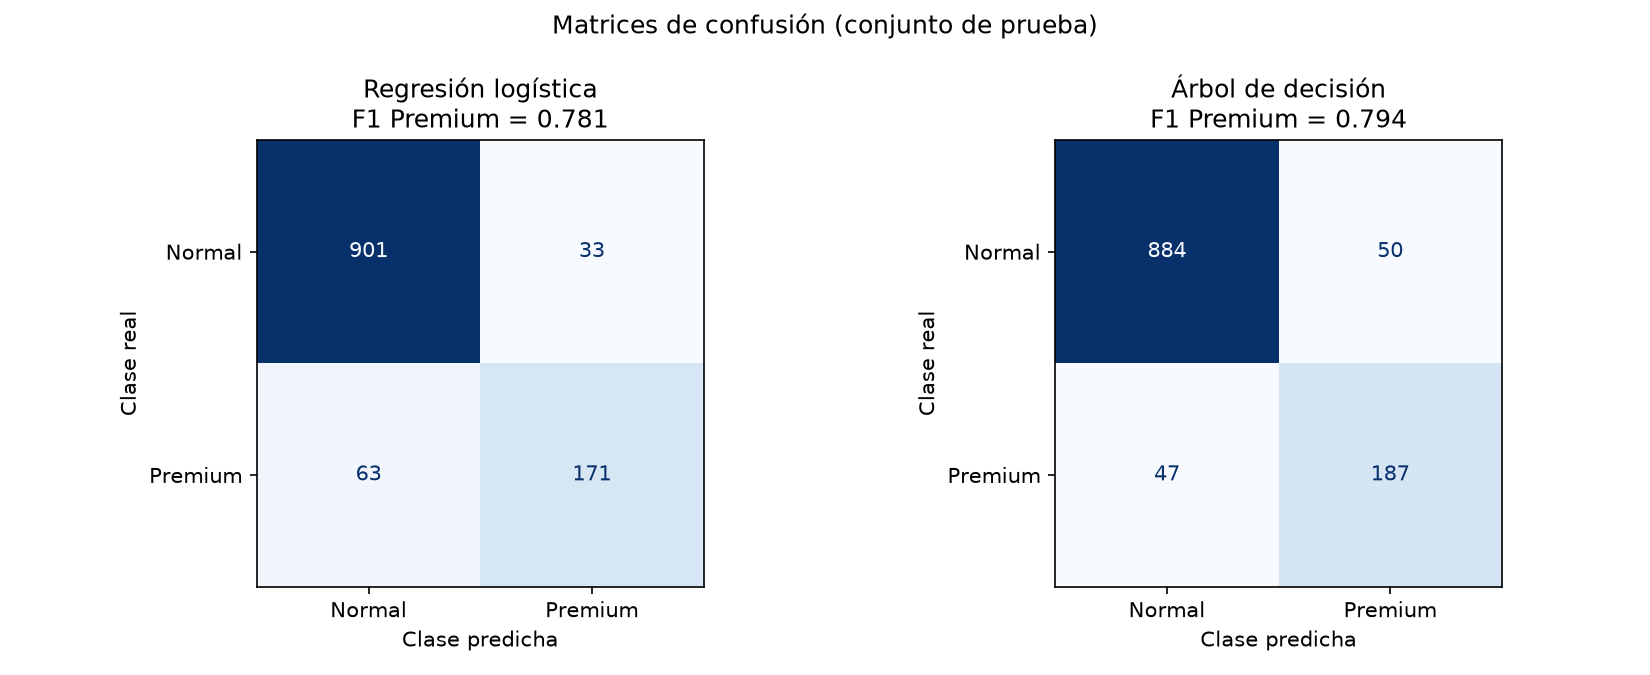
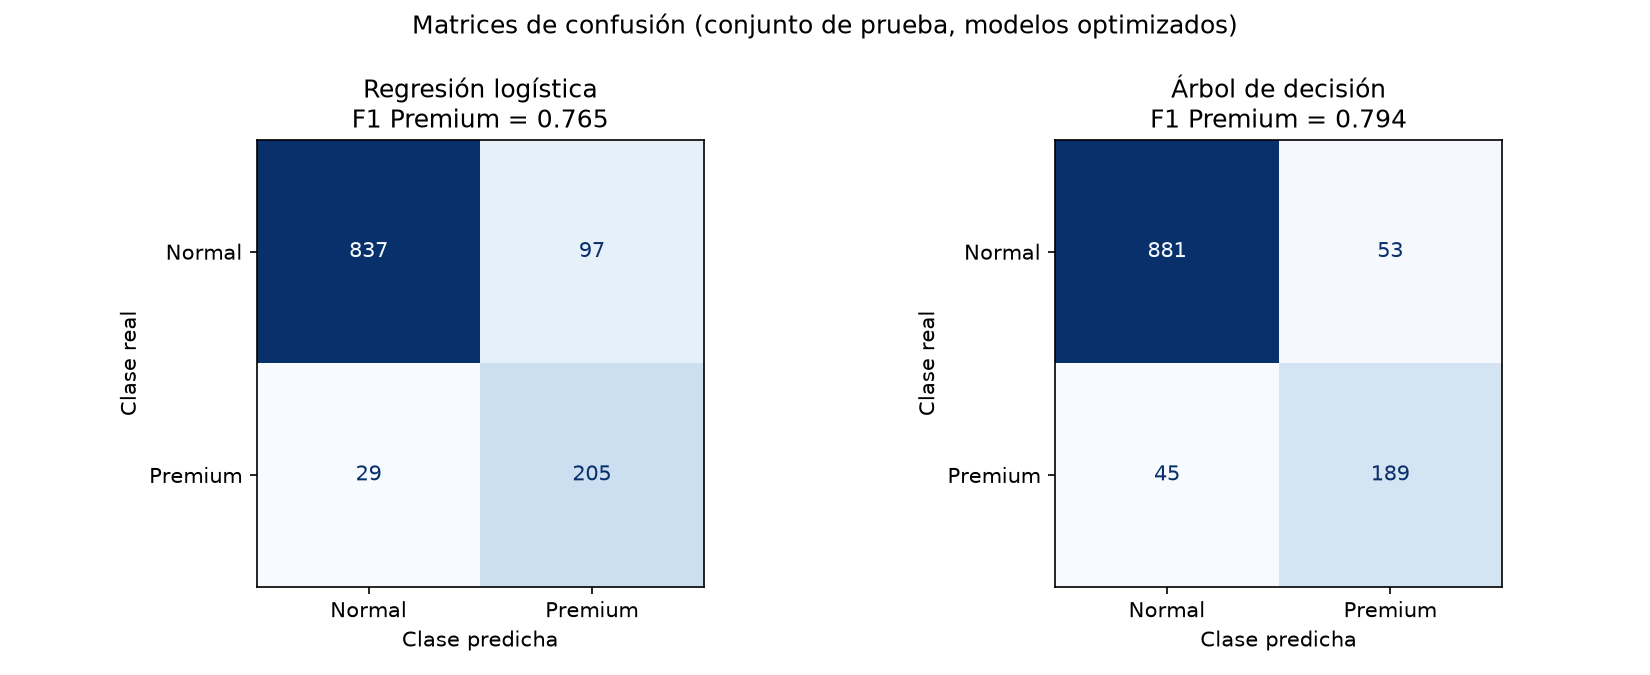
Optimización de hiperparámetros de 04 con GridSearchCV

diff --git a/scripts/04_clasificacion.py b/scripts/04_clasificacion.py
@@ -3,7 +3,8 @@ import matplotlib.pyplot as plt
 import pandas as pd
 from sklearn.linear_model import LogisticRegression
 from sklearn.metrics import (ConfusionMatrixDisplay, accuracy_score, classification_report, f1_score, precision_score, recall_score)
-from sklearn.model_selection import train_test_split
+from sklearn.model_selection import GridSearchCV, cross_val_score, train_test_split
+from sklearn.pipeline import make_pipeline
 from sklearn.preprocessing import StandardScaler
 from sklearn.tree import DecisionTreeClassifier, export_text
 
@@ -22,6 +23,14 @@ log = []
 def registrar(msg=""):
     print(msg)
     log.append(str(msg))
+
+def mejores_combinaciones(busqueda, n=5):
+    """Las n combinaciones de hiperparámetros con mayor F1 en validación cruzada."""
+    tabla = pd.DataFrame(busqueda.cv_results_["params"]).fillna("None")  # class_weight=None
+    tabla.columns = [c.replace("logisticregression__", "") for c in tabla.columns]
+    tabla["f1_cv"] = busqueda.cv_results_["mean_test_score"]
+    tabla["desv_cv"] = busqueda.cv_results_["std_test_score"]
+    return tabla.sort_values("f1_cv", ascending=False).head(n).round(3)
 
 # 1. Tabla de clientes (solo líneas con CustomerID)
 df = pd.read_parquet(PROCESSED / "ventas_limpias.parquet").dropna(subset=["CustomerID"])
@@ -64,31 +73,64 @@ registrar(perfil.round(2).to_string())
 
 clientes.to_parquet(PROCESSED / "clientes.parquet")
 
-# 3. División entrenamiento / prueba (estratificada) y escalado
+# 3. División entrenamiento / prueba (estratificada)
 X = clientes[PREDICTORES]
 y = clientes["premium"]
 X_train, X_test, y_train, y_test = train_test_split(
     X, y, test_size=0.2, stratify=y, random_state=42)
-
-escalador = StandardScaler()
-X_train_esc = escalador.fit_transform(X_train)   # se ajusta solo con entrenamiento
-X_test_esc = escalador.transform(X_test)
 
 registrar("\n3. DIVISIÓN")
 registrar(f"Entrenamiento: {len(X_train):,} | Prueba: {len(X_test):,} | "
           f"Premium en prueba: {y_test.mean():.2%}")
 registrar(f"Exactitud de referencia (predecir siempre Normal): {1 - y_test.mean():.2%}")
 
-# 4. Entrenamiento y evaluación
-logistica = LogisticRegression(max_iter=1000)
-logistica.fit(X_train_esc, y_train)
-pred_log = logistica.predict(X_test_esc)
+# 4. Optimización de hiperparámetros: validación cruzada (5 particiones) solo en entrenamiento, la regresión va en un Pipeline para que el escalado se ajuste dentro de cada partición
+busqueda_log = GridSearchCV(
+    make_pipeline(StandardScaler(), LogisticRegression(max_iter=1000)),
+    param_grid={"logisticregression__C": [0.01, 0.1, 1, 10],
+                "logisticregression__class_weight": [None, "balanced"]},
+    cv=5, scoring="f1")
+busqueda_log.fit(X_train, y_train)
 
-arbol = DecisionTreeClassifier(max_depth=4, random_state=42)
-arbol.fit(X_train, y_train)    # el árbol no necesita escalado
-pred_arbol = arbol.predict(X_test)
+busqueda_arbol = GridSearchCV(
+    DecisionTreeClassifier(random_state=42),
+    param_grid={"max_depth": [2, 3, 4, 5, 6, 8],
+                "min_samples_leaf": [1, 10, 25, 50],
+                "class_weight": [None, "balanced"]},
+    cv=5, scoring="f1")
+busqueda_arbol.fit(X_train, y_train)
 
-registrar("\n4. RESULTADOS EN PRUEBA")
+# Configuración inicial (versión anterior), evaluada con las mismas particiones
+f1_inicial_log = cross_val_score(
+    make_pipeline(StandardScaler(), LogisticRegression(max_iter=1000)),
+    X_train, y_train, cv=5, scoring="f1").mean()
+f1_inicial_arbol = cross_val_score(
+    DecisionTreeClassifier(max_depth=4, random_state=42),
+    X_train, y_train, cv=5, scoring="f1").mean()
+
+registrar("\n4. OPTIMIZACIÓN DE HIPERPARÁMETROS (F1 Premium, validación cruzada)")
+registrar("Regresión logística, mejores combinaciones:")
+registrar(mejores_combinaciones(busqueda_log).to_string(index=False))
+registrar("\nÁrbol de decisión, mejores combinaciones:")
+registrar(mejores_combinaciones(busqueda_arbol).to_string(index=False))
+
+comparacion = pd.DataFrame({
+    "f1_cv_inicial": [f1_inicial_log, f1_inicial_arbol],
+    "f1_cv_optimizado": [busqueda_log.best_score_, busqueda_arbol.best_score_],
+}, index=["Regresión logística", "Árbol de decisión"])
+comparacion["mejora"] = comparacion["f1_cv_optimizado"] - comparacion["f1_cv_inicial"]
+registrar("\nConfiguración inicial (C=1; árbol max_depth=4) frente a la optimizada:")
+registrar(comparacion.round(3).to_string())
+registrar(f"Mejor regresión: {str(busqueda_log.best_params_).replace('logisticregression__', '')}")
+registrar(f"Mejor árbol: {busqueda_arbol.best_params_}")
+
+# Evaluación final: el conjunto de prueba se usa una sola vez
+mejor_log = busqueda_log.best_estimator_
+mejor_arbol = busqueda_arbol.best_estimator_
+pred_log = mejor_log.predict(X_test)
+pred_arbol = mejor_arbol.predict(X_test)
+
+registrar("\nRESULTADOS EN PRUEBA (modelos optimizados)")
 resumen = {}
 for nombre, pred in [("Regresión logística", pred_log), ("Árbol de decisión", pred_arbol)]:
     registrar(f"\n{nombre}")
@@ -102,15 +144,16 @@ registrar("Resumen:")
 registrar(tabla.round(3).to_string())
 
 # 5. Interpretación
+logistica = mejor_log.named_steps["logisticregression"]
 importancia = pd.DataFrame({
     "coef_logistica": logistica.coef_[0],
-    "importancia_arbol": arbol.feature_importances_,
+    "importancia_arbol": mejor_arbol.feature_importances_,
 }, index=PREDICTORES).sort_values("importancia_arbol", ascending=False)
-registrar("\n5. INTERPRETACIÓN")
+registrar("\n5. INTERPRETACIÓN (modelos optimizados)")
 registrar("Coeficientes de la regresión (variables estandarizadas) e importancia en el árbol:")
 registrar(importancia.round(3).to_string())
-registrar("\nReglas del árbol:")
-registrar(export_text(arbol, feature_names=PREDICTORES, class_names=CLASES))
+registrar("\nReglas del árbol (se muestran hasta 4 niveles):")
+registrar(export_text(mejor_arbol, feature_names=PREDICTORES, class_names=CLASES, max_depth=4))
 
 # Figura 06: matrices de confusión
 fig, axes = plt.subplots(1, 2, figsize=(11, 4.5))
@@ -121,7 +164,7 @@ for ax, nombre, pred in [(axes[0], "Regresión logística", pred_log),
     ax.set_title(f"{nombre}\nF1 Premium = {tabla.loc[nombre, 'f1_premium']:.3f}")
     ax.set_xlabel("Clase predicha")
     ax.set_ylabel("Clase real")
-fig.suptitle("Matrices de confusión (conjunto de prueba)")
+fig.suptitle("Matrices de confusión (conjunto de prueba, modelos optimizados)")
 fig.tight_layout()
 fig.savefig(FIGURES / "06_matrices_confusion.png", dpi=150)
 plt.close(fig)
